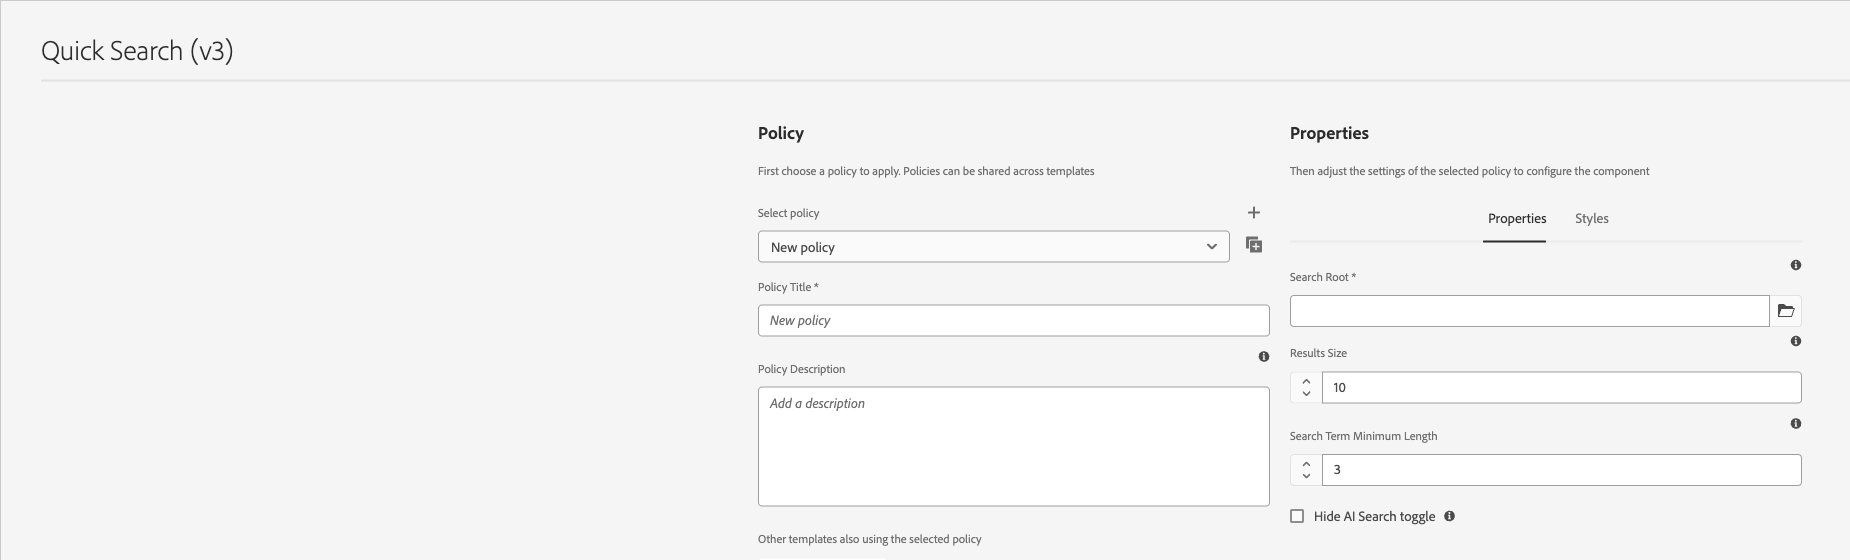
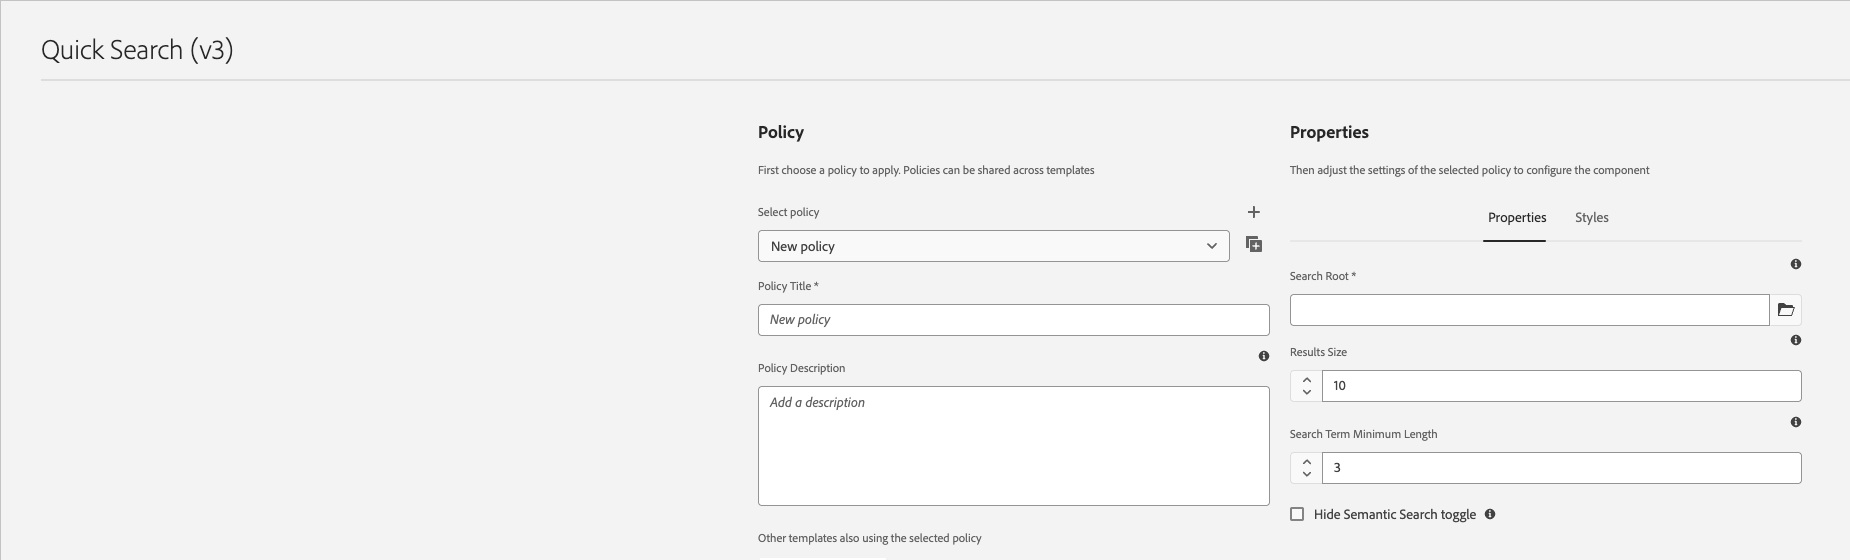
GRANITE-71377: Rename AI Search to Semantic Search, document edit-dialog override
Rename "AI Search" to "Semantic Search" throughout to match the label
change in adobe/aem-core-wcm-components#3069, and document the new
per-instance "Hide Semantic Search toggle on this instance" edit
dialog property added on that same PR - content authors can now force
the toggle hidden on a specific placement without touching the
template policy, though not the reverse (can't force-show against a
hide policy).

Refreshed all three screenshots against a locally built instance
running the updated component: edit dialog (new title + checkbox),
design/policy dialog (updated field text), and the rendered toggle
(updated label).

diff --git a/help/components/quick-search.md b/help/components/quick-search.md
@@ -1,6 +1,6 @@
 ---
 title: Quick Search Component
-description: The Quick Search Component provides search capabilities to a website and presents search results so that visitors can search the site and filter the results, optionally using AI-powered semantic search.
+description: The Quick Search Component provides search capabilities to a website and presents search results so that visitors can search the site and filter the results, optionally using AI-powered semantic search via the Semantic Search toggle.
 role: Developer, Admin, User
 exl-id: fc40ce1d-e69a-4a40-853e-67a37228271b
 TQID: https://experienceleague.adobe.com/wU-3pacdEz9ne8b53-mKJy-XxRdyz2gu4Jvj-yFgGOw
@@ -33,19 +33,19 @@ The Quick Search Component provides search capabilities to a website and present
 
 The Quick Search component offers site visitors the ability to search for content, view the results in-place, and easily navigate to the matching pages. New results are fetched dynamically as the user scrolls the search results.
 
-Starting with v3, the component can optionally present an **AI Search** toggle next to the search field. When a site visitor enables the toggle, the search query is routed to [!DNL AEM Content AI] for semantic, AI-powered search instead of the standard full-text search. Template authors can hide this toggle for all visitors of a template using the [design dialog](#design-dialog).
+Starting with v3, the component can optionally present a **Semantic Search** toggle next to the search field. When a site visitor enables the toggle, the search query is routed to [!DNL AEM Content AI] for semantic, AI-powered search instead of the standard full-text search. Template authors can hide this toggle for all visitors of a template using the [design dialog](#design-dialog), and content authors can additionally force it hidden on a specific placement of the component using the [edit dialog](#edit-dialog).
 
 >[!NOTE]
 >
->The AI Search toggle only returns AI-powered results when the environment is configured with [!DNL AEM Content AI]. On AEM 6.5 and AEM 6.5 LTS environments that are not configured with Content AI, hide the toggle using the design dialog so visitors aren't offered a search mode that isn't functional.
+>The Semantic Search toggle only returns AI-powered results when the environment is configured with [!DNL AEM Content AI]. On AEM 6.5 and AEM 6.5 LTS environments that are not configured with Content AI, hide the toggle using the design dialog so visitors aren't offered a search mode that isn't functional.
 
-![Quick Search Component's AI Search toggle, off by default (top) and switched on by a site visitor (bottom)](/help/assets/quick-search-ai-toggle.png)
+![Quick Search Component's Semantic Search toggle, off by default (top) and switched on by a site visitor (bottom)](/help/assets/quick-search-ai-toggle.png)
 
-The [edit dialog](#edit-dialog) allows the content author to define where in the content tree the search should start. Using the [design dialog](#design-dialog), the template author can set the default value for where in the content tree the search should begin, the maximum result set size, the minimum search term length, and whether the AI Search toggle is shown to visitors.
+The [edit dialog](#edit-dialog) allows the content author to define where in the content tree the search should start, and to optionally hide the Semantic Search toggle on that specific placement. Using the [design dialog](#design-dialog), the template author can set the default value for where in the content tree the search should begin, the maximum result set size, the minimum search term length, and whether the Semantic Search toggle is shown to visitors by default.
 
 ## Version and Compatibility {#version-and-compatibility}
 
-The current version of the Quick Search Component is v3, which was introduced with [release 2.32.0](/help/versions.md) of the Core Components to add an optional AI Search toggle, and is described in this document.
+The current version of the Quick Search Component is v3, which was introduced with [release 2.32.0](/help/versions.md) of the Core Components to add an optional Semantic Search toggle, and is described in this document.
 
 The following table details all supported versions of the component, the AEM versions with which the versions of the component is compatible, and links to documentation for previous versions.
 
@@ -69,23 +69,28 @@ Further details about developing Core Components can be found in the [Core Compo
 
 ## Edit Dialog {#edit-dialog}
 
-The edit dialog allows the content author to define where in the content tree the search should start.
+The edit dialog allows the content author to define where in the content tree the search should start, and to optionally hide the Semantic Search toggle on this specific placement of the component.
 
-![Quick Search Component's edit dialog](/help/assets/quick-search-edit.png)
+![Quick Search Component's edit dialog](/help/assets/quick-search-edit-v3.png)
 
 **Search Root** - The root page from where to start the search. The Search Root can be a blueprint master, language master or regular page.
 * **ID** - This option allows control of the unique identifier of the component in the HTML and in the [Data Layer.](/help/developing/data-layer/overview.md)
   * If left blank, a unique ID is automatically generated for you and can be found by inspecting the resulting page.
   * If an ID is specified, it is the responsibility of the author to make sure that it is unique.
   * Changing the ID can have an impact on CSS, JS and Data Layer tracking.
+* **Hide Semantic Search toggle on this instance** - When checked, the Semantic Search toggle is hidden for this specific placement of the component, regardless of what the [design dialog](#design-dialog) is configured to show. Leave unchecked to use the template's default.
 
 >[!NOTE]
 >
 >If the **Search Root** is not configured or can not be resolved, the Quick Search defaults to searching beneath the current page.
 
+>[!NOTE]
+>
+>**Hide Semantic Search toggle on this instance** can only be used to hide the toggle on a placement where the design dialog would otherwise show it. It cannot force the toggle to show on a placement where the design dialog hides it.
+
 ## Design Dialog {#design-dialog}
 
-Using the design dialog, the template author can set the default value for where in the content tree the search should begin as well as a maximum result set size, minimum search term length, and whether the AI Search toggle is shown to visitors. The design dialog allows the template author to define which text formatting options are available to the content authors.
+Using the design dialog, the template author can set the default value for where in the content tree the search should begin as well as a maximum result set size, minimum search term length, and whether the Semantic Search toggle is shown to visitors by default. The design dialog allows the template author to define which text formatting options are available to the content authors.
 
 ### Properties Tab {#properties-tab}
 
@@ -97,8 +102,8 @@ Using the design dialog, the template author can set the default value for where
   The maximum number of results fetched by a search request
 * **Search Term Minimum Length**
   Minimum length of the search term to start the search
-* **Hide AI Search Toggle**
-  When checked, the **AI Search** toggle described in [Usage](#usage) isn't shown to site visitors, and the component behaves like v2 (full-text search only). Unchecked by default.
+* **Hide Semantic Search Toggle**
+  When checked, the **Semantic Search** toggle described in [Usage](#usage) isn't shown to site visitors by default, and the component behaves like v2 (full-text search only). Unchecked by default. Content authors can also override this per placement from the [edit dialog](#edit-dialog).
 
 >[!NOTE]
 >
